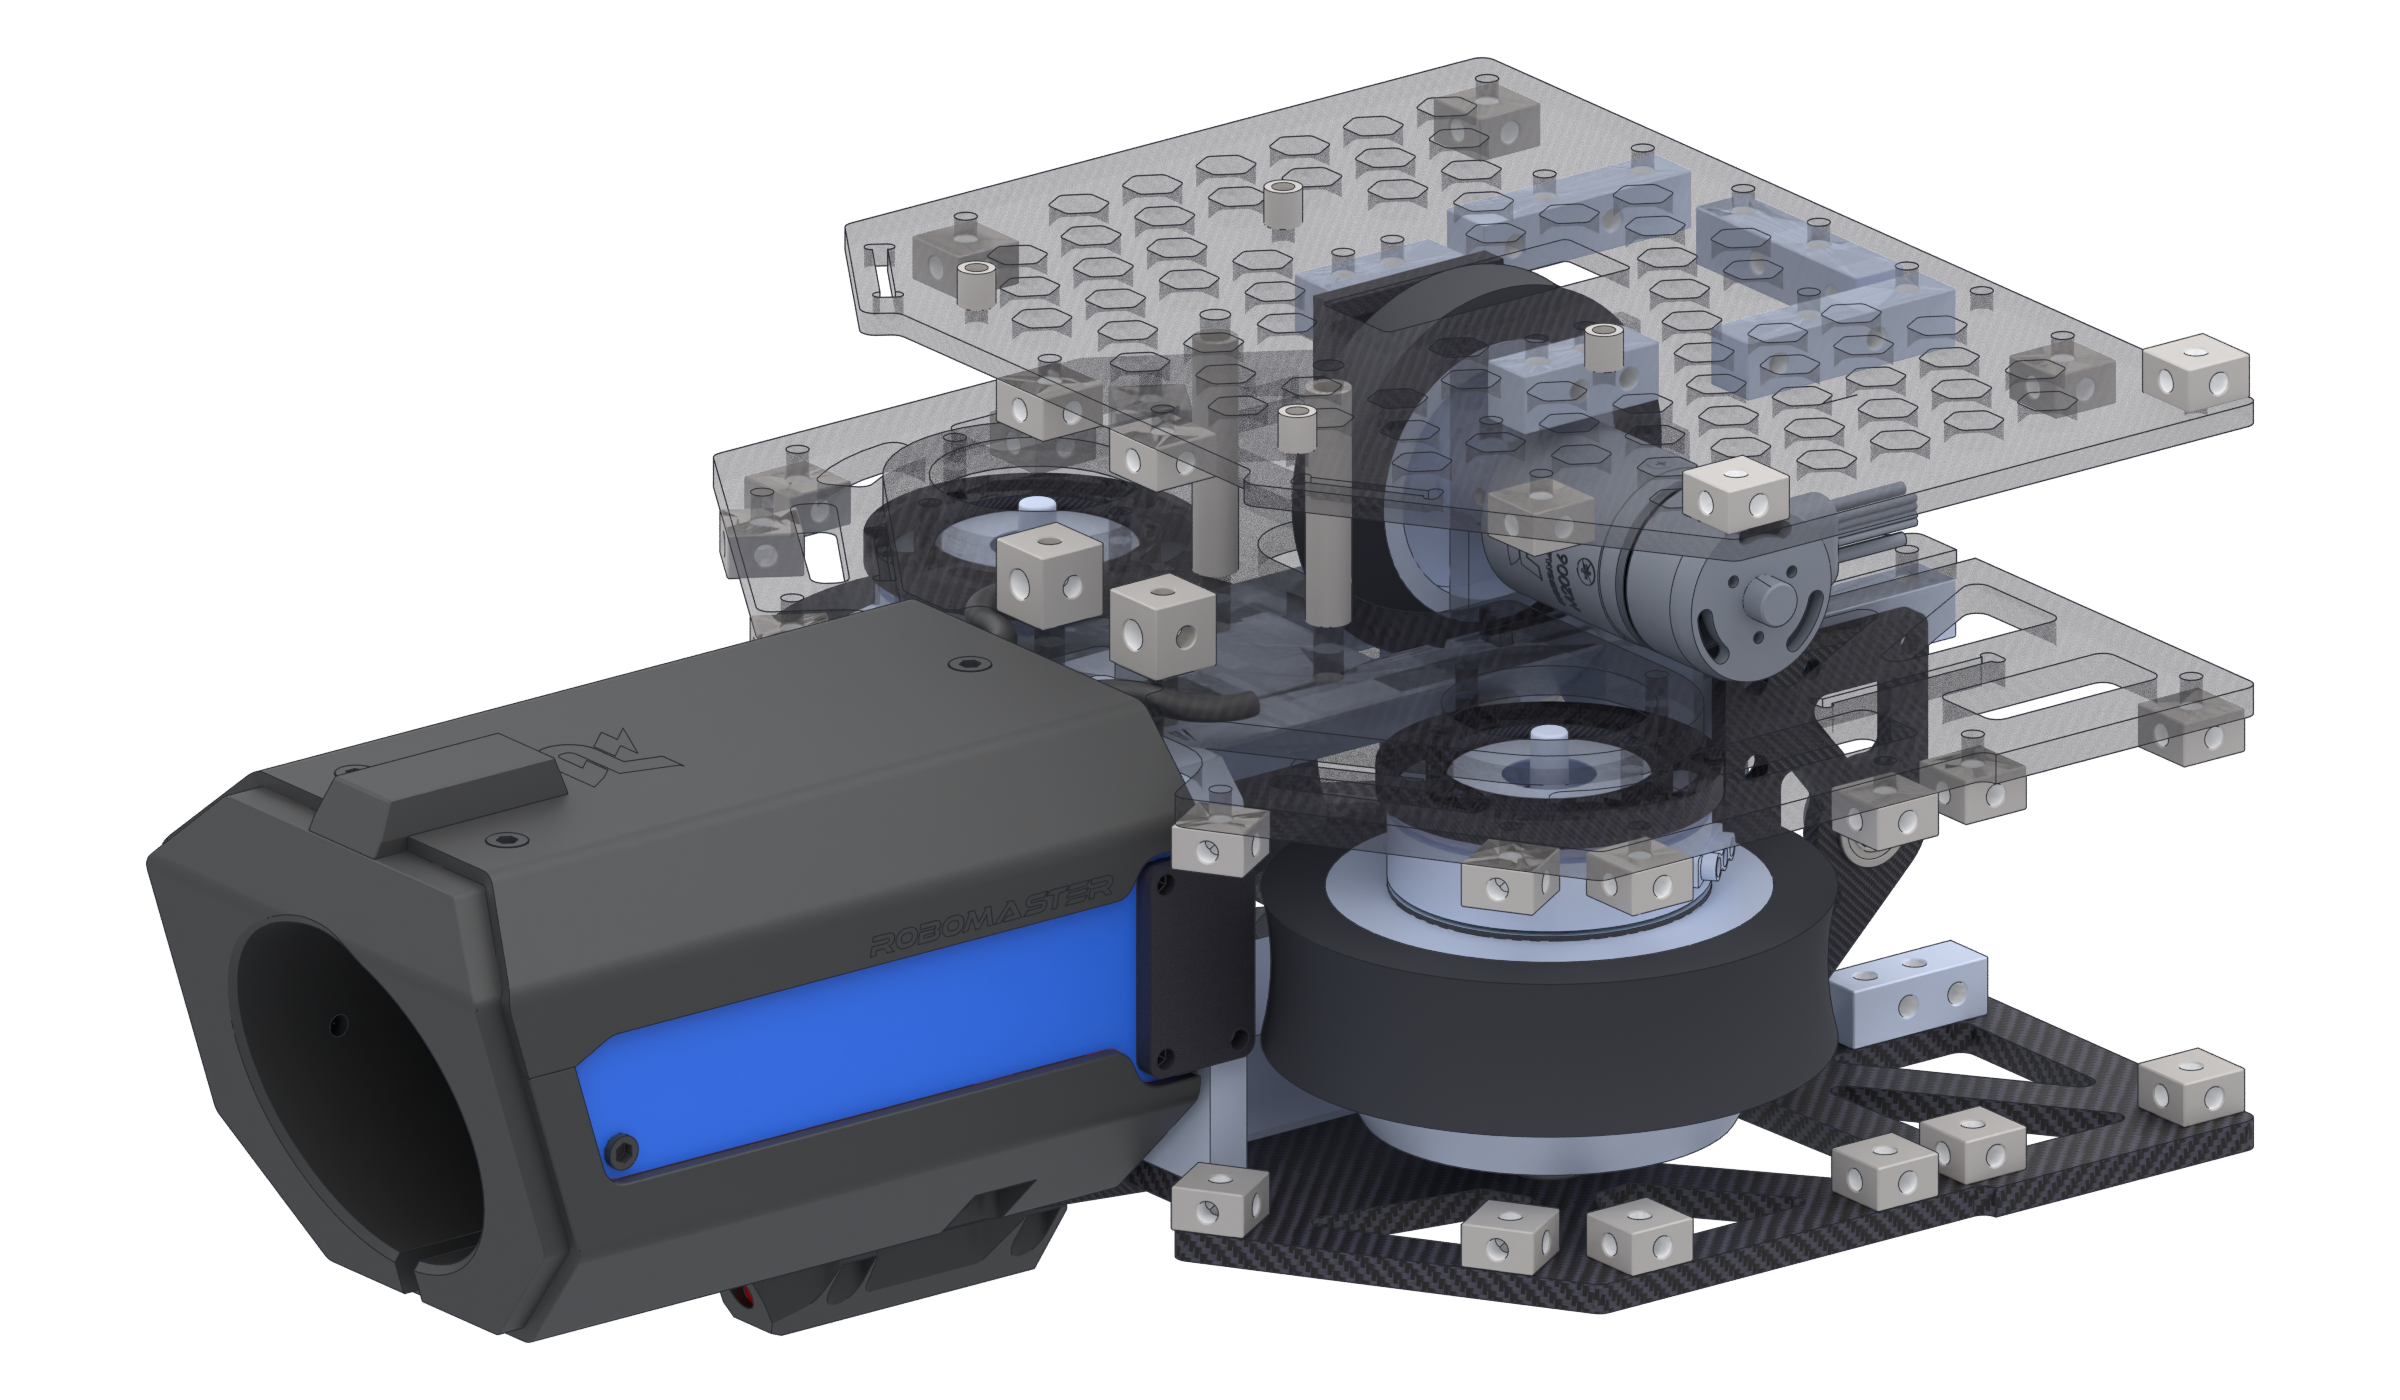
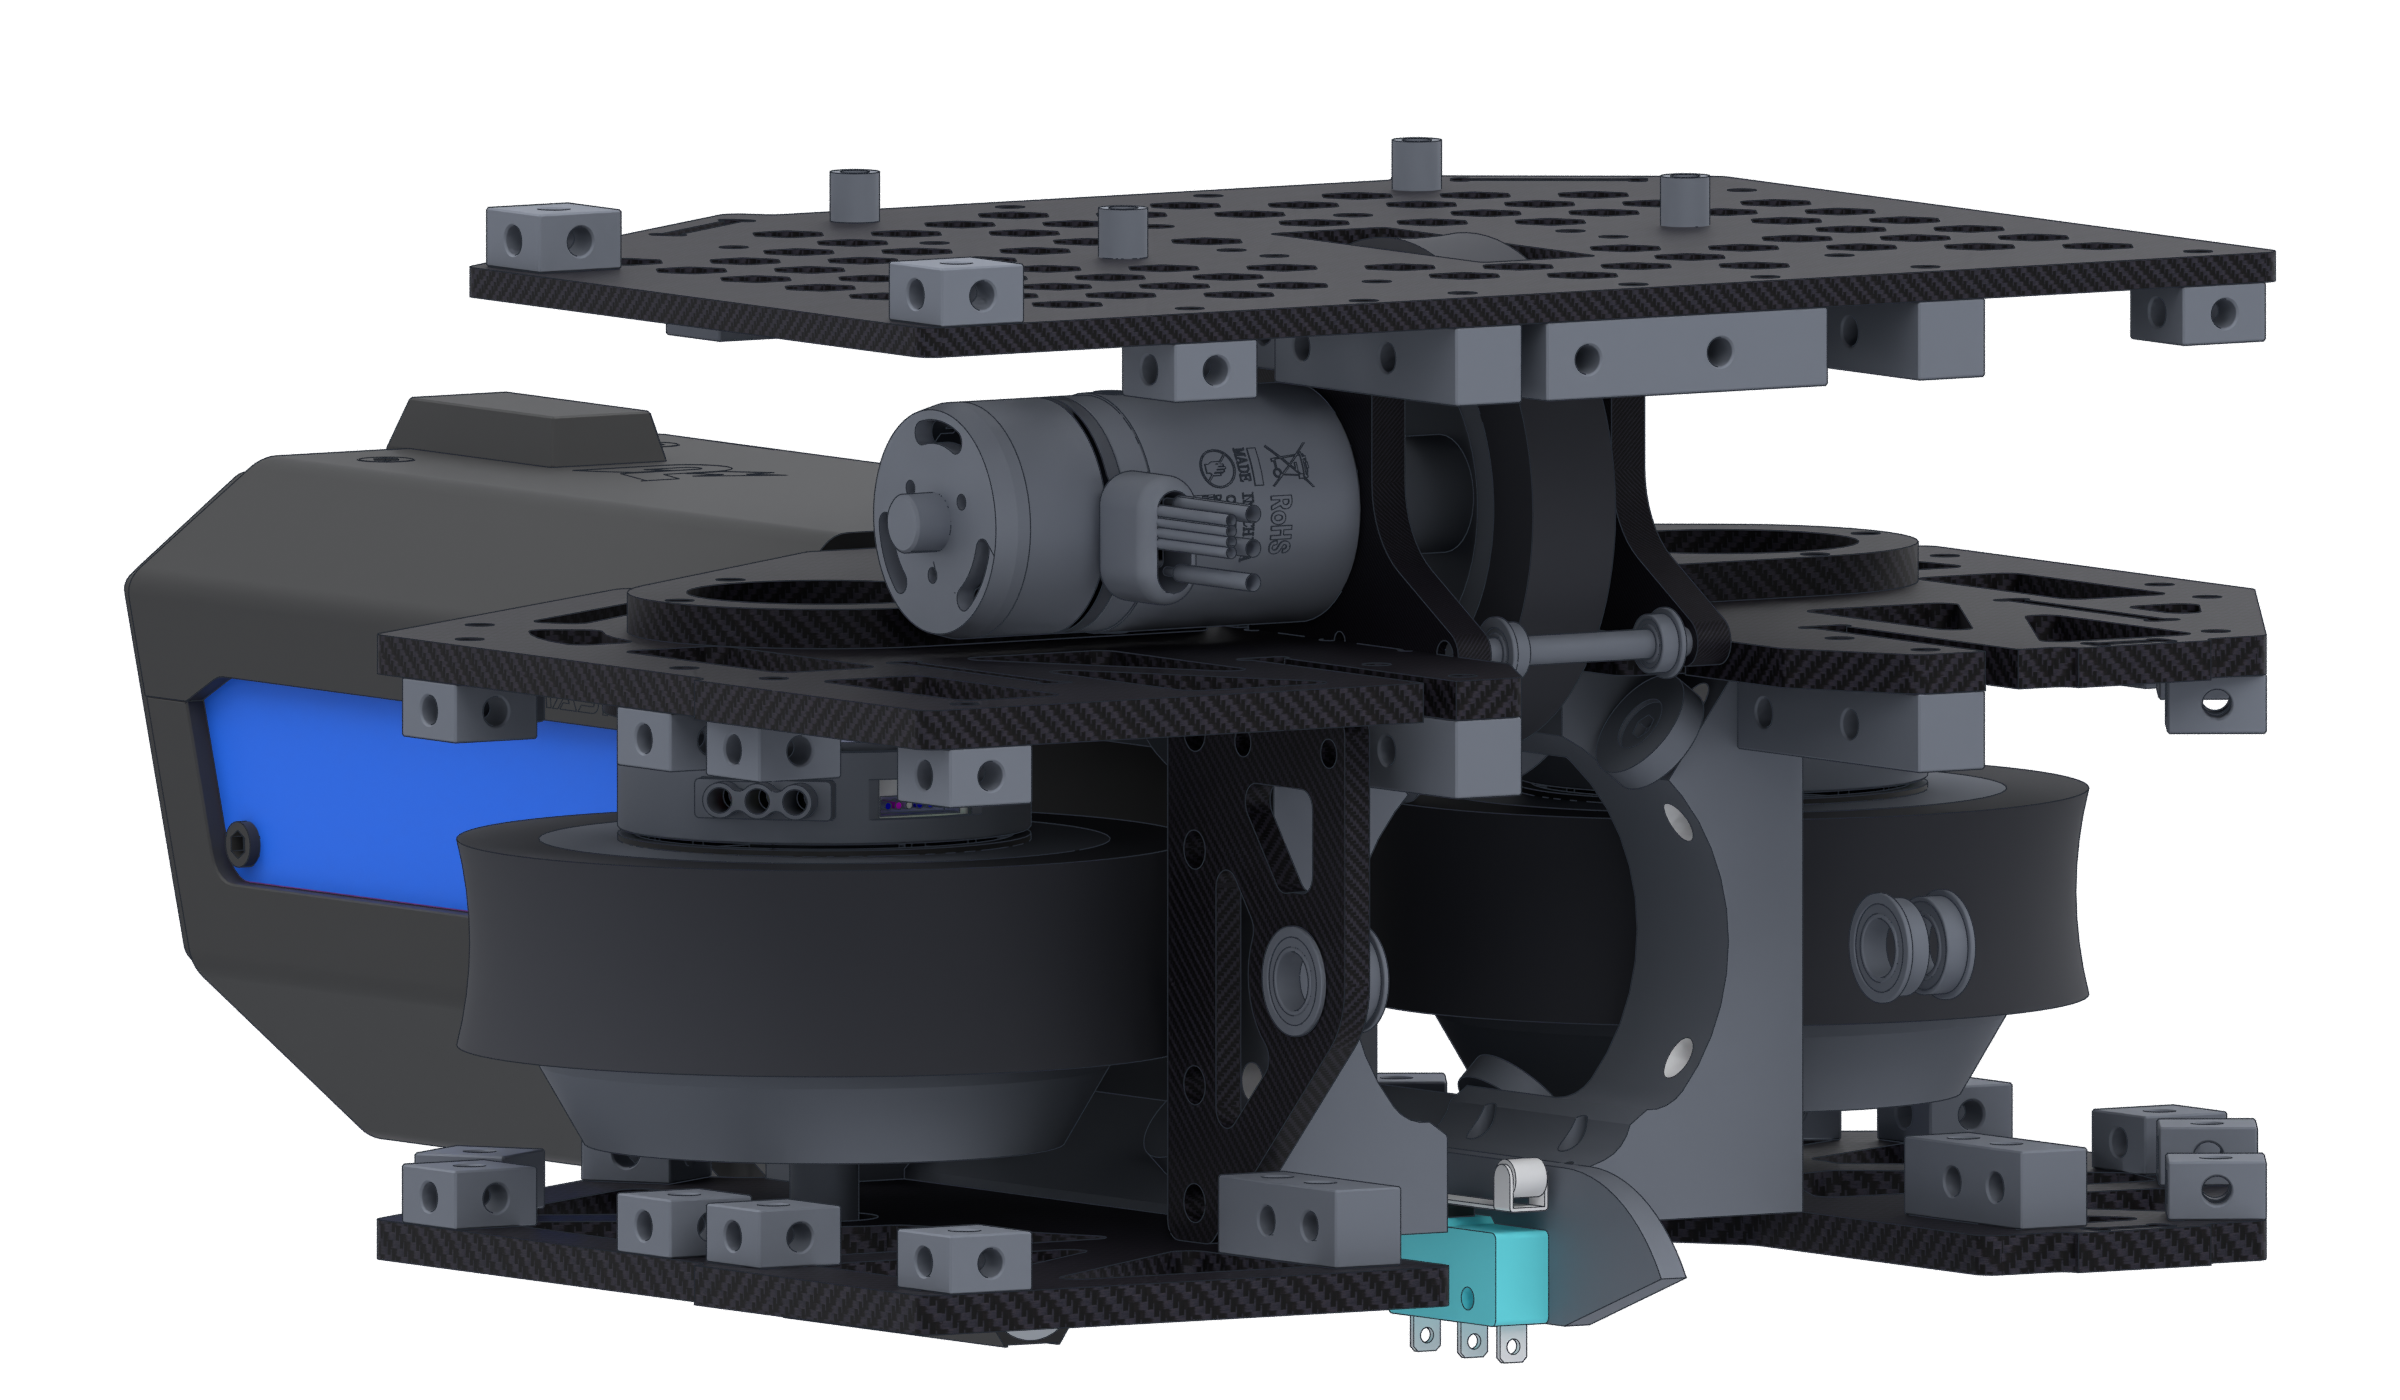
fix: 发射机构改为实体板件与低位侧视构图

diff --git a/materials/README.md b/materials/README.md
@@ -41,11 +41,11 @@ CAD 原件在 `D:\RM2025` 和 OneDrive，只读使用，入口见 [models/source
 
 模型确认为两个主摩擦轮装配（803、819）和一个预加速小轮装配（809）。本版恢复发射核心的完整框架：保留主上下板（801／816）、加固板（791）、小轮电机与对轴支架（796／800）、上层框架板（914）、轮轴支承、连接立柱、核心紧固件、枪管导向件（813）、供弹导引块（823）和测速模块及其连接件（817、807、814、830），共 96 个原生网格对象。电机本体、减速器和输出轴（806／811／822）保持整体及原装配位置。节点 811 只隐藏主体外的长线缆和连接器，不拆解电机。
 
-外罩、侧护板隐藏节点为 771、774、777、781、915、919、923、926、927、931、946；它们不属于承力框架。遮挡轮子的加固板 791、小轮电机固定板 796、主上板 816、上层框架板 914 均保留，使用 alpha 0.24 的半透明展示。完整英雄输入中的后部云台支架、CV 相机、电控仓、图传及它们的外围配件未纳入发射核心画面；逐节点理由与所有保留件见运行时审计报告。
+外罩、侧护板隐藏节点为 771、774、777、781、915、919、923、926、927、931、946；它们不属于承力框架。加固板 791、小轮电机固定板 796、主上板 816、上层框架板 914 均恢复不透明；本版没有半透明零件。完整英雄输入中的后部云台支架、CV 相机、电控仓、图传及它们的外围配件未纳入发射核心画面；逐节点理由与所有保留件见运行时审计报告。
 
-先生成候选 A（约 12° 俯仰、框架 alpha 0.30）和 B（约 20°、alpha 0.24），分别与 `launcher-dual-4.png`、`launcher-dual-6.png` 并排比较，最终采用 B。测速／枪口模块在左、摩擦轮框架在右；保留 CAD 的浅灰、黑色、测速模块蓝色及碳纤维纹理，柔化反光并添加细边线，以接近四轮、六轮图的 SolidWorks 展示风格。不再添加弹道箭头。
+第三版生成不透明候选 A（局部方位角 45°、俯仰 3°）和 B（57°、5°），分别与 `launcher-dual-4.png`、`launcher-dual-6.png` 并排比较，最终采用 B。相机贴近弹道高度，从框架开口看到两个大轮与上层预加速小轮；测速／枪口模块投影在左、摩擦轮框架在右。碳板保留深色纹理，立柱和支座使用粗糙度较高的金属灰，避免上一版透明板和过亮白块压过轮子。主体宽度以 A2 的实心 alpha 包围盒为准，垂直中心以 A2/A3 平均位置为准，调整正交相机比例和位置，保留完整模型入框。没有添加弹道箭头或移动装配内的零件。
 
-复现运行 `powershell -NoProfile -ExecutionPolicy Bypass -File scripts/render-launcher-core.ps1`（默认候选 B）；通过 `-Candidate a/b -Output <worktree 内 PNG 路径> -Audit <审计 JSON 路径>` 可分别生成两张候选。脚本自动取重负载锁、后台运行 Blender 5.1.1、在 14 分钟超时或出错后释放锁。采用 CPU Cycles、24 samples、denoise、Standard、Freestyle 细边线、透明背景和正交侧向 3/4 视角，按实际网格投影边界留白。只提取选中网格及引用的 CAD 纹理缓冲，不复制整车大文件，不保存 `.blend`。节点取舍、半透明理由、边界及 SHA-256 写入审计报告；两候选、并排图和报告保存在本机 `C:\Users\cch20\AppData\Local\Temp\rm-shots\launcher\revision\`。英雄页图片和 `content.ts` 均未修改。
+复现运行 `powershell -NoProfile -ExecutionPolicy Bypass -File scripts/render-launcher-core.ps1`（默认候选 B）；通过 `-Candidate a/b -Output <worktree 内 PNG 路径> -Audit <审计 JSON 路径>` 可分别生成两张候选。脚本自动取重负载锁、后台运行 Blender 5.1.1、在 14 分钟超时或出错后释放锁；启动参数和渲染设置均限制为 2 个线程，渲染后立即退出。采用 CPU Cycles、16 samples、denoise、Standard、Freestyle 细边线、透明背景和正交侧向 3/4 视角。只提取选中网格及引用的 CAD 纹理缓冲，不复制整车大文件，不保存 `.blend`。材质 alpha 全部为 1；三个实际轮胎网格分别按 800 个面积加权表面点作射线遮挡核验，避免只核对保留节点而没有露出轮子。节点取舍、遮挡检查、投影边界及 SHA-256 写入审计报告；第三版两候选、并排图、页面截图和报告保存在本机 `C:\Users\cch20\AppData\Local\Temp\rm-shots\launcher\side\`，前版证据保留在 `revision/`。英雄页图片和 `content.ts` 均未修改。
 
 ## 清理与维护
 
